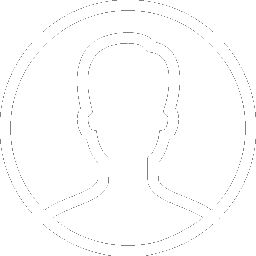
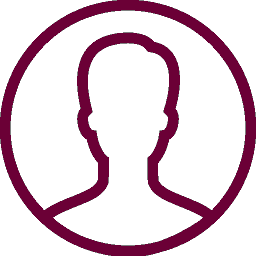
Principal casi terminar

Changed region(s): [[0.0, 0.0, 1.0, 1.0]]

diff --git a/DI/DomiticaDesign/DomiticaDesign/View/Menu.xaml b/DI/DomiticaDesign/DomiticaDesign/View/Menu.xaml
@@ -6,61 +6,166 @@
     xmlns:d="http://schemas.microsoft.com/expression/blend/2008"
     xmlns:mc="http://schemas.openxmlformats.org/markup-compatibility/2006"
     mc:Ignorable="d">
-    <Grid Background="#1081CA">
+    <Page.Resources>
+        <DataTemplate x:Key="Principal">
+                <Grid>
+                    <Grid.RowDefinitions>
+                        <RowDefinition Height="1*" />
+                        <RowDefinition Height="2*" />
+                        <RowDefinition Height="1*" />
+                        <RowDefinition Height="5*" />
+                        <RowDefinition Height="2*" />
+                    </Grid.RowDefinitions>
+                    <Grid.ColumnDefinitions>
+                        <ColumnDefinition Width="3*" />
+                        <ColumnDefinition Width="3*" />
+                        <ColumnDefinition Width="4*" />
+                    </Grid.ColumnDefinitions>
+
+                    <!--TODO Clicks-->
+                <Button Grid.Row="1" Grid.Column="0">
+                <Rectangle Style="{StaticResource RectangleStyle}"
+                    Width="50" Height="100" 
+                                />
+                </Button>
+
+                <Button Grid.Row="0" Grid.Column="0">
+                    <Rectangle Style="{StaticResource RectangleStyle}"
+                               Width="200" Height="100" 
+                                />
+                </Button>
+
+                <Button Grid.Row="2" Grid.Column="0">
+                    <Rectangle Style="{StaticResource RectangleStyle}"
+                               Width="200" Height="50" 
+                                />
+                </Button>
+
+                <Button Grid.Row="0" Grid.Column="3">
+                    <Rectangle Style="{StaticResource RectangleStyle}"
+                               Width="200" Height="100" 
+                                />
+                </Button>
+
+                <Button Grid.RowSpan="3" Grid.Row="1" Grid.Column="1">
+                    <Rectangle Style="{StaticResource RectangleStyle}"
+                               Width="100" Height="300" 
+                                />
+                </Button>
+
+                <Button Grid.Row="0" Grid.Column="1">
+                    <Rectangle Style="{StaticResource RectangleStyle}"
+                               Width="100" Height="200" 
+                                />
+                </Button>
+
+                <Button Grid.Row="2" Grid.Column="2">
+                    <Rectangle Style="{StaticResource RectangleStyle}"
+                               Width="200" Height="50" 
+                                />
+                </Button>
+
+                <Button Grid.Row="3" Grid.Column="0">
+                    <Rectangle Style="{StaticResource RectangleStyle}"
+                               Width="200" Height="100" 
+                                />
+                </Button>
+                
+            </Grid>
+        </DataTemplate>
+    </Page.Resources>
+  
+
+    <Grid Style="{StaticResource background}">
         <!--https://blogs.msdn.microsoft.com/quick_thoughts/2015/06/01/windows-10-splitview-build-your-first-hamburger-menu/ -->
         <!--https://msdn.microsoft.com/en-us/windows/uwp/style/segoe-ui-symbol-font-->
         <SplitView x:Name="MySplitView" DisplayMode="CompactOverlay"  IsPaneOpen="False" 
-               CompactPaneLength="50" OpenPaneLength="150">
+               CompactPaneLength="50" OpenPaneLength="225">
             <SplitView.Pane>
-                <StackPanel Background="Gray">
-                    <Button x:Name="HamburgerButton" FontFamily="Segoe MDL2 Assets" Content="&#xE700;"
+                <StackPanel Style="{StaticResource backgroundBar}">
+                    <Button x:Name="HamburgerButton" FontFamily="Segoe MDL2 Assets" Foreground="#CAE0D9" Content="&#xE700;"
                     Width="50" Height="50" Background="Transparent" Click="HamburgerButton_Click"/>
 
-                    <Button x:Name="MenuButton1"
-                    Width="auto" Height="auto" Background="Transparent">
+
+                    <!--Pagina Principal-->
+                    <Button Click="PaginaPrincipal_Click" x:Name="MenuButton1" Style="{StaticResource ButtonStyleSplitView}" Width="{Binding ElementName=MySplitView, Path=OpenPaneLength}" >
                         <Button.Content>
-                            <StackPanel Orientation="Horizontal">
-                                <TextBlock FontFamily="Segoe MDL2 Assets" VerticalAlignment="Center" Text="&#xE1D6;" Margin="0, 0, 5, 0" />
-                                <TextBlock Text="Button 1" FontSize="18" VerticalAlignment="Center" Visibility="Collapsed" />
-                            </StackPanel>
+                            <RelativePanel Width="{Binding ElementName=MySplitView, Path=OpenPaneLength}">
+                                <StackPanel RelativePanel.AlignLeftWithPanel="True" Style="{StaticResource SplitViewStyle}">
+                                    <TextBlock Style="{StaticResource SplitStyle}" Text="&#xE10F;" />
+                                    <TextBlock Text="Pagina Principal" Style="{StaticResource colorTxt}" />
+                                </StackPanel>
+                            </RelativePanel>
                         </Button.Content>
                     </Button>
 
+                    <!--Luz-->
                     <Button x:Name="MenuButton2"
-                    Width="auto" Height="auto" Background="Transparent">
+                            Width="{Binding ElementName=MySplitView, Path=OpenPaneLength}"
+                            Style="{StaticResource ButtonStyleSplitView}">
                         <Button.Content>
-                            <StackPanel Orientation="Horizontal">
-                                <TextBlock FontFamily="Segoe MDL2 Assets" VerticalAlignment="Center" Text="&#xE1D6;" Margin="0, 0, 5, 0" />
-                                <TextBlock Text="Button 1" FontSize="18" VerticalAlignment="Center" Visibility="Collapsed" />
-                            </StackPanel>
+                            <RelativePanel Width="{Binding ElementName=MySplitView, Path=OpenPaneLength}">
+                                <StackPanel RelativePanel.AlignLeftWithPanel="True" Style="{StaticResource SplitViewStyle}">
+                                    <TextBlock Style="{StaticResource SplitStyle}" Text="&#xEA80;" />
+                                    <TextBlock Text="Luz" Style="{StaticResource colorTxt}"  />
+                                </StackPanel>
+                            </RelativePanel>
                         </Button.Content>
                     </Button>
 
+                    <!--Perianas-->
                     <Button x:Name="MenuButton3"
-                    Width="auto" Height="auto" Background="Transparent">
+                            Width="{Binding ElementName=MySplitView, Path=OpenPaneLength}"
+                            Style="{StaticResource ButtonStyleSplitView}">
                         <Button.Content>
-                            <StackPanel Orientation="Horizontal">
-                                <TextBlock FontFamily="Segoe MDL2 Assets" VerticalAlignment="Center" Text="&#xE1D6;" Margin="0, 0, 5, 0" />
-                                <TextBlock Text="Button 1" FontSize="18" VerticalAlignment="Center" Visibility="Collapsed" />
-                            </StackPanel>
+                            <RelativePanel Width="{Binding ElementName=MySplitView, Path=OpenPaneLength}">
+                                <StackPanel Orientation="Horizontal">
+                                    <TextBlock Style="{StaticResource SplitStyle}" Text="&#xEDA8;" />
+                                    <TextBlock Text="Persianas" Style="{StaticResource colorTxt}"  />
+                                </StackPanel>
+                            </RelativePanel>
                         </Button.Content>
                     </Button>
 
+                    <!--Alarma-->
                     <Button x:Name="MenuButton4"
-                    Width="auto" Height="auto" Background="Transparent">
+                            Width="{Binding ElementName=MySplitView, Path=OpenPaneLength}"
+                            Style="{StaticResource ButtonStyleSplitView}">
                         <Button.Content>
-                            <StackPanel Orientation="Horizontal">
-                                <TextBlock FontFamily="Segoe MDL2 Assets" VerticalAlignment="Center" Text="&#xE1D6;" Margin="0, 0, 5, 0" />
-                                <TextBlock Text="Button 1" FontSize="18" VerticalAlignment="Center" Visibility="Collapsed" />
-                            </StackPanel>
+                            <RelativePanel Width="{Binding ElementName=MySplitView, Path=OpenPaneLength}">
+                                <StackPanel Orientation="Horizontal">
+                                    <TextBlock Style="{StaticResource SplitStyle}" Text="&#xE1D6;" />
+                                    <TextBlock Text="Alarma" Style="{StaticResource colorTxt}" />
+                                </StackPanel>
+                            </RelativePanel>
                         </Button.Content>
                     </Button>
                 </StackPanel>
             </SplitView.Pane>
             <SplitView.Content>
                 <Grid>
-                    <TextBlock Text="SplitView Basic" FontSize="54" Foreground="White"
-                           HorizontalAlignment="Center" VerticalAlignment="Center"/>
+                    <Grid.RowDefinitions>
+                        <RowDefinition x:Name="Row1" Height="*" />
+                        <RowDefinition x:Name="Row2" Height="0" />
+                        <RowDefinition x:Name="Row3" Height="0" />
+                        <RowDefinition x:Name="Row4" Height="0" />
+                    </Grid.RowDefinitions>
+                    <Grid.ColumnDefinitions>
+                        <ColumnDefinition />
+                    </Grid.ColumnDefinitions>
+                    
+
+                    <ContentPresenter Name="Principal"
+                                      Grid.Row="0"
+                                      Grid.Column="0"
+                                      VerticalAlignment="Top"
+                                      Margin="0, 100, 0, 0"
+                                      HorizontalAlignment="Center"
+                                      ContentTemplate="{StaticResource Principal}">
+
+                    </ContentPresenter>
+                    
+
                 </Grid>
             </SplitView.Content>
         </SplitView>

diff --git a/DI/DomiticaDesign/DomiticaDesign/View/MainPage.xaml b/DI/DomiticaDesign/DomiticaDesign/View/MainPage.xaml
@@ -11,12 +11,12 @@
             <RowDefinition Height="0.2*" />
             <RowDefinition Height="*" />
         </Grid.RowDefinitions>
-        <Border Grid.Row="0" Background="#CC193E91">
+        <Border Grid.Row="0" Background="#6B0036">
             <Viewbox>
                 <TextBlock Foreground="White" Margin="5,5,5,5">Domotic House</TextBlock>
             </Viewbox>
         </Border>
-        <Grid Background="#1081CA" Grid.Row="1" >
+        <Grid Background="#CAE0D9" Grid.Row="1" >
             
             <Grid.ColumnDefinitions>
                 <ColumnDefinition x:Name="Colum1" Width="2.5*"/>
@@ -31,17 +31,17 @@
                 <RowDefinition Height="0.5*" />
             </Grid.RowDefinitions>
 
-            <Image Grid.Column="1" Source="../Assets/users-user-male-4-icon.png" />
+            <Image Grid.Column="1" Source="../Assets/users-user-male-4-icon.png" Margin="0, 50, 0, 0" />
 
             <StackPanel Grid.Row="2" Grid.ColumnSpan="3" Margin="20, 20, 20,20">
-                <TextBlock Text="Usuario" HorizontalAlignment="Center" FontSize="20" Foreground="White"/>
+                <TextBlock Text="Usuario" HorizontalAlignment="Center" FontSize="20" Foreground="#6B0036"/>
                 <TextBox Margin="0, 10, 0, 0" MaxWidth="500"></TextBox>
             </StackPanel>
 
             <StackPanel Grid.Row="3" Grid.ColumnSpan="3" Margin="20, 20, 20,20">
-                <TextBlock Text="Constraseña" HorizontalAlignment="Center" FontSize="20" Foreground="White"/>
+                <TextBlock Text="Constraseña" HorizontalAlignment="Center" FontSize="20" Foreground="#6B0036"/>
                 <TextBox Margin="0, 10, 0, 0" MaxWidth="500"></TextBox>
-                <Button Content="Enviar" Foreground="White" Background="#FF193E91" HorizontalAlignment="Center" Margin="0, 20, 0, 0" Click="Enviar_Click"/>
+                <Button Content="Enviar" Foreground="#6B0036" HorizontalAlignment="Center" Margin="0, 20, 0, 0" Click="Enviar_Click"/>
             </StackPanel>
         </Grid>
     </Grid>

diff --git a/DI/DomiticaDesign/DomiticaDesign/Data/Template.xaml b/DI/DomiticaDesign/DomiticaDesign/Data/Template.xaml
@@ -1,0 +1,40 @@
+<ResourceDictionary
+    xmlns="http://schemas.microsoft.com/winfx/2006/xaml/presentation" 
+    xmlns:x="http://schemas.microsoft.com/winfx/2006/xaml"
+    xmlns:local="using:DomiticaDesign.Data">
+
+    <Style x:Name="colorTxt" TargetType="TextBlock">
+        <Setter Property="Foreground" Value="#CAE0D9" />
+        <Setter Property="FontSize" Value="20" />
+    </Style>
+
+    <Style x:Key="SplitStyle" BasedOn="{StaticResource colorTxt}" TargetType="TextBlock">
+        <Setter Property="VerticalAlignment" Value="Center" />
+        <Setter Property="FontFamily" Value="Segoe MDL2 Assets" />
+        <Setter Property="Margin" Value="10, 0, 20, 0" />
+    </Style>
+
+    <Style x:Name="background" TargetType="Grid">
+        <Setter Property="Background" Value="#CAE0D9" />
+    </Style>
+
+    <Style x:Name="backgroundBar" TargetType="StackPanel">
+        <Setter Property="Background" Value="#6B0036" />
+    </Style>
+
+    <Style x:Name="ButtonStyleSplitView" TargetType="Button">
+        <Setter Property="BorderBrush" Value="#1F1F1F" />
+        <Setter Property="Background" Value="Transparent" />
+        <Setter Property="Width" Value="200" />
+    </Style>
+
+    <Style x:Name="SplitViewStyle" TargetType="StackPanel">
+        <Setter Property="Orientation" Value="Horizontal" />
+        <Setter Property="Background" Value="Transparent" />
+    </Style>
+
+    <Style x:Name="RectangleStyle" TargetType="Rectangle">
+        <Setter Property="Fill" Value="Red" />
+    </Style>
+
+</ResourceDictionary>

diff --git a/DI/DomiticaDesign/DomiticaDesign/App.xaml b/DI/DomiticaDesign/DomiticaDesign/App.xaml
@@ -4,5 +4,11 @@
     xmlns:x="http://schemas.microsoft.com/winfx/2006/xaml"
     xmlns:local="using:DomiticaDesign"
     RequestedTheme="Light">
-
+    <Application.Resources>
+        <ResourceDictionary>
+            <ResourceDictionary.MergedDictionaries>
+                <ResourceDictionary Source="Data/Template.xaml" />
+            </ResourceDictionary.MergedDictionaries>
+        </ResourceDictionary>
+    </Application.Resources>
 </Application>

diff --git a/DI/DomiticaDesign/DomiticaDesign/View/Menu.xaml.cs b/DI/DomiticaDesign/DomiticaDesign/View/Menu.xaml.cs
@@ -30,8 +30,39 @@ namespace DomiticaDesign.View
         private void HamburgerButton_Click(object sender, RoutedEventArgs e)
         {
             MySplitView.IsPaneOpen = true;
+            MenuButton1.Visibility = Visibility.Visible;
+        }
 
-            
+        private void PaginaPrincipal_Click(object sender, RoutedEventArgs e)
+        {
+            Row1.Height = new GridLength(1 ,GridUnitType.Star);
+            Row2.Height = new GridLength(0);
+            Row3.Height = new GridLength(0);
+            Row4.Height = new GridLength(0);
+        }
+
+        private void Luz_Click(object sender, RoutedEventArgs e)
+        {
+            Row1.Height = new GridLength(0);
+            Row2.Height = new GridLength(1, GridUnitType.Star);
+            Row3.Height = new GridLength(0);
+            Row4.Height = new GridLength(0);
+        }
+
+        private void Persianas_Click(object sender, RoutedEventArgs e)
+        {
+            Row1.Height = new GridLength(0);
+            Row2.Height = new GridLength(0);
+            Row3.Height = new GridLength(1, GridUnitType.Star);
+            Row4.Height = new GridLength(0);
+        }
+
+        private void Alarma_Click(object sender, RoutedEventArgs e)
+        {
+            Row1.Height = new GridLength(0);
+            Row2.Height = new GridLength(0);
+            Row3.Height = new GridLength(0);
+            Row4.Height = new GridLength(1, GridUnitType.Star);
         }
     }
 }
